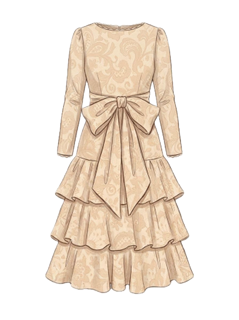
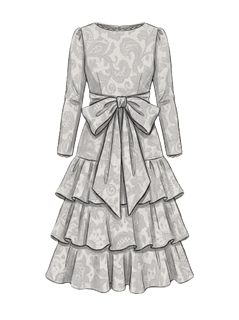
الفئاتُ تتركُ البيج: رسومٌ رماديّةٌ دافئةٌ على بلاطاتٍ لها حافّة
قسمُ «تصفّحي حسب الفئة» كان آخرَ مساحةٍ بيجَ واسعةٍ بالموقع — يظهرُ
بالصفحةِ الرئيسيّةِ وبصفحةِ كلِّ متجر، خمسةُ أثوابٍ كريميّةٍ بصفٍّ واحد.

• الرسومُ السبعةُ أُعيدَ تلوينُها إلى الرماديِّ الدافئ: الخطوطُ والتفاصيلُ
  والظلالُ كما هي حرفاً بحرف، والبيجُ وحدَه ذهب. الأصلُ محفوظٌ بتاريخِ
  المستودعِ إن أردتَ العودةَ إليه.
• البلاطة: كانت الأيقونةُ تطفو على البياضِ بلا أرضيّةٍ ولا حافّةٍ فتبدو
  قصاصةً لا بطاقةً تُنقَر، ويبقى القسمُ فارغاً رغمَ طولِه. صار لها أرضيّةٌ
  وخطٌّ داخليٌّ يتعمّقانِ عندَ المرور.
• صورةُ التاجرةِ تملأُ البلاطةَ كصورةٍ حقيقيّة، والأيقونةُ الثابتةُ تتنفّسُ
  داخلَها بحشوةٍ ولا تُقَصّ — كانتا تُعامَلانِ معاملةً واحدة.
• الاسمُ ينزلُ عن الصورةِ قليلاً ويكبرُ: كان ملتصقاً بحافّتِها.

diff --git a/client/src/components/CategoryGrid.jsx b/client/src/components/CategoryGrid.jsx
@@ -25,11 +25,15 @@ function CategoryCard({ cat }) {
   const label = cat.name || (cat.builtin ? t(`categories.${cat.key}`) : cat.key);
   // صورة المالكة المخصّصة تُحسَّن بحجم أصغر وصيغة تلقائية لظهور أسرع؛ والأيقونة الثابتة كما هي
   const src = cat.image ? cldThumb(cat.image, 400) : cat.builtin ? `/categories/${cat.key}.png` : '';
+  // صورةُ التاجرةِ صورةٌ حقيقيّةٌ تملأُ البلاطة، والأيقونةُ الثابتةُ رسمٌ بلا
+  // خلفيّةٍ يتنفّسُ داخلَها بحشوة — لا يُعامَلانِ معاملةً واحدة.
+  const isPhoto = Boolean(cat.image);
   return (
     <div className="transition duration-300 group-hover:-translate-y-1">
-      {/* بلا إطار/خلفية — يظهر شكل الأيقونة فقط (الصور بلا خلفية)، بحجم موحّد */}
-      <div className="relative flex aspect-square items-center justify-center overflow-hidden">
-        {/* هالة ذهبية ناعمة تتوهّج خلف الأيقونة عند المرور — لمسة بوتيك راقية */}
+      {/* بلاطةٌ لها أرضيّةٌ وحافّة: كانت الأيقونةُ تطفو على البياضِ فتبدو قصاصةً
+          لا بطاقة، وبقيَ القسمُ فارغاً رغمَ طولِه. */}
+      <div className="bz-cattile relative flex aspect-square items-center justify-center overflow-hidden rounded-2xl">
+        {/* هالةٌ ناعمةٌ تتوهّجُ خلفَ الأيقونةِ عند المرور — لمسةُ بوتيكٍ راقية */}
         <span aria-hidden className="pointer-events-none absolute inset-0 m-auto h-2/3 w-2/3 rounded-full bg-gold-400/25 opacity-0 blur-2xl transition-opacity duration-500 group-hover:opacity-100" />
         {src ? (
           <img
@@ -37,7 +41,7 @@ function CategoryCard({ cat }) {
             alt={label}
             loading="eager"
             decoding="async"
-            className="relative h-full w-full object-contain transition-transform duration-500 group-hover:scale-105"
+            className={`relative h-full w-full transition-transform duration-500 group-hover:scale-105 ${isPhoto ? 'object-cover' : 'object-contain p-3 sm:p-4'}`}
           />
         ) : (
           // فئة مخصّصة بلا صورة → أيقونة ملبس خطّية أنيقة بلون خمري
@@ -47,8 +51,8 @@ function CategoryCard({ cat }) {
           </svg>
         )}
       </div>
-      <div className="pt-1 text-center">
-        <span className="text-xs font-bold text-wine sm:text-sm">{label}</span>
+      <div className="pt-2.5 text-center">
+        <span className="text-[0.78rem] font-semibold text-wine sm:text-sm">{label}</span>
       </div>
     </div>
   );
@@ -103,7 +107,7 @@ export default function CategoryGrid({ onSelect, active, images = {}, names = {}
 
   const Item = ({ cat }) => {
     const isActive = active === cat.key;
-    const cls = `group block animate-fade-up transition-all duration-300 hover:-translate-y-1.5 ${isActive ? 'ring-2 ring-wine ring-offset-2 ring-offset-cream rounded-3xl' : ''}`;
+    const cls = `group block animate-fade-up transition-all duration-300 hover:-translate-y-1.5 ${isActive ? 'ring-2 ring-wine ring-offset-2 ring-offset-cream rounded-2xl' : ''}`;
     return onSelect ? (
       <button type="button" onClick={() => onSelect(isActive ? 'all' : cat.key)} className={cls}>
         <CategoryCard cat={cat} />

diff --git a/client/src/index.css b/client/src/index.css
@@ -4765,3 +4765,30 @@ html.dark .theme-pub .bz-pmedia::after { box-shadow: inset 0 0 0 1px rgba(243, 2
   background: radial-gradient(78% 68% at 50% 50%,
     rgba(8, 8, 8, 0.52) 0%, rgba(8, 8, 8, 0.2) 58%, rgba(8, 8, 8, 0.46) 100%);
 }
+
+/* ═══════ بلاطةُ الفئة ═══════
+   كانت الأيقونةُ تطفو على بياضِ الصفحةِ بلا أرضيّةٍ ولا حافّة — فتبدو قصاصةً
+   مرسومةً لا بطاقةً تُنقَر، ويبقى قسمُ «تصفّحي حسب الفئة» فارغاً رغمَ طولِه.
+   أرضيّةٌ رماديّةٌ فاتحةٌ وخطٌّ داخليٌّ يجعلانِ منها بطاقةً، وتُعمّقانِ عندَ
+   المرورِ فيصيرُ للقسمِ إيقاع. */
+.theme-pub .bz-cattile {
+  background: #F2F2F1;
+  box-shadow: inset 0 0 0 1px rgba(23, 23, 23, 0.06);
+  transition: background-color 0.3s ease, box-shadow 0.3s ease;
+}
+@media (hover: hover) and (pointer: fine) {
+  .theme-pub .group:hover .bz-cattile {
+    background: #ECEBE9;
+    box-shadow: inset 0 0 0 1px rgba(23, 23, 23, 0.12);
+  }
+}
+html.dark .theme-pub .bz-cattile {
+  background: #1C1B1A;
+  box-shadow: inset 0 0 0 1px rgba(243, 237, 228, 0.08);
+}
+@media (hover: hover) and (pointer: fine) {
+  html.dark .theme-pub .group:hover .bz-cattile {
+    background: #232120;
+    box-shadow: inset 0 0 0 1px rgba(243, 237, 228, 0.16);
+  }
+}

diff --git a/client/src/pages/StorePage.jsx b/client/src/pages/StorePage.jsx
@@ -393,14 +393,16 @@ export default function StorePage() {
                       {t('store.catSale', { count: cnt.sale })}
                     </span>
                   )}
-                  <div className="flex aspect-square w-full items-center justify-center overflow-hidden">
+                  <div className="flex aspect-square w-full items-center justify-center overflow-hidden rounded-xl">
                     {src ? (
                       <img
                         src={src}
                         alt={catLabel(c.key)}
                         loading="eager"
                         decoding="async"
-                        className="h-full w-full object-contain transition-transform duration-500 group-hover:scale-105"
+                        // صورةُ التاجرةِ تملأُ المربّعَ كصورةٍ حقيقيّة، والأيقونةُ
+                        // الثابتةُ رسمٌ بلا خلفيّةٍ يبقى داخلَه بلا قصّ
+                        className={`h-full w-full transition-transform duration-500 group-hover:scale-105 ${c.image ? 'object-cover' : 'object-contain'}`}
                       />
                     ) : (
                       <svg viewBox="0 0 24 24" className="h-1/2 w-1/2 text-wine/60" fill="none" stroke="currentColor" strokeWidth="1.4" strokeLinecap="round" strokeLinejoin="round" aria-hidden="true">
